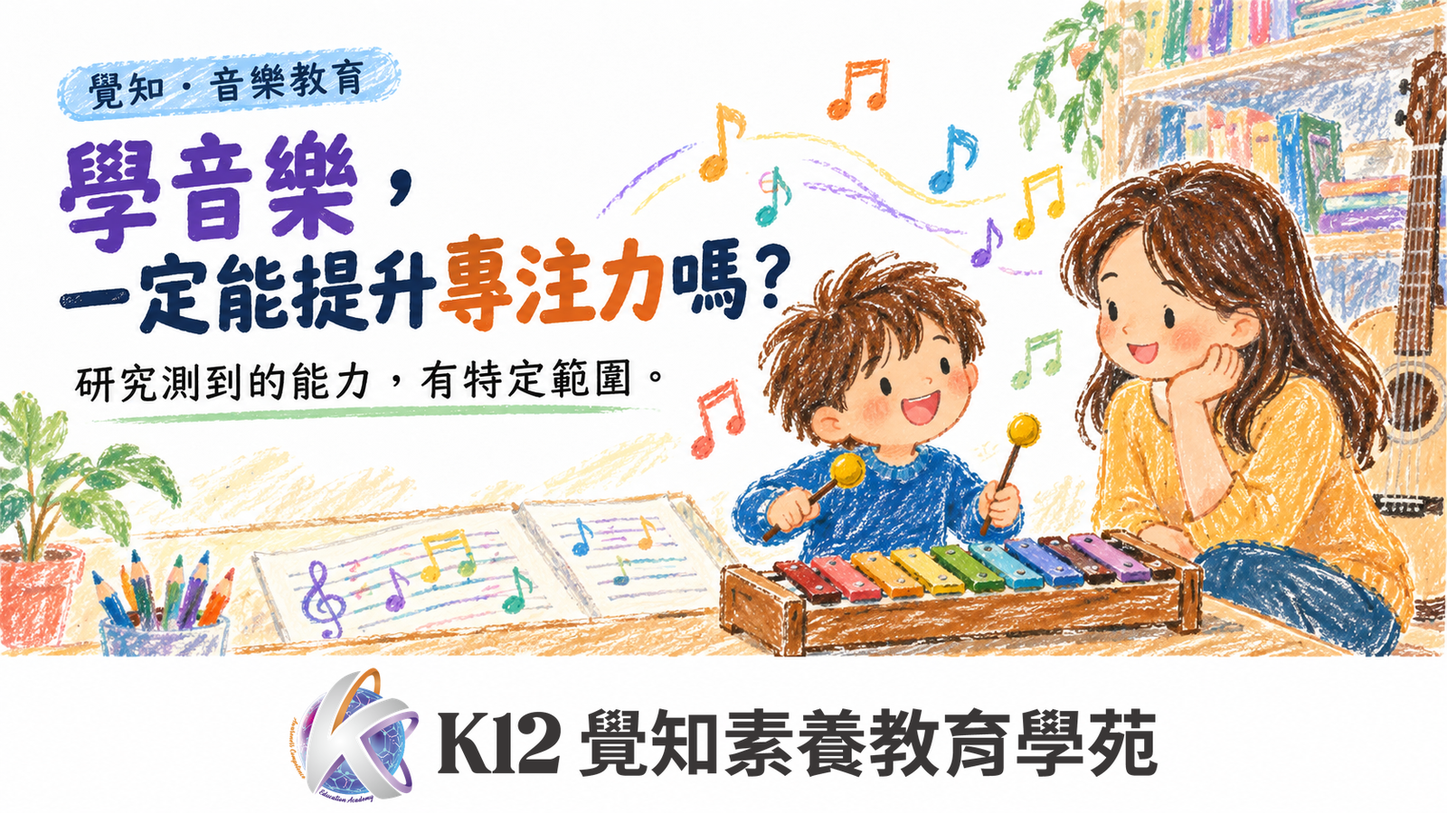
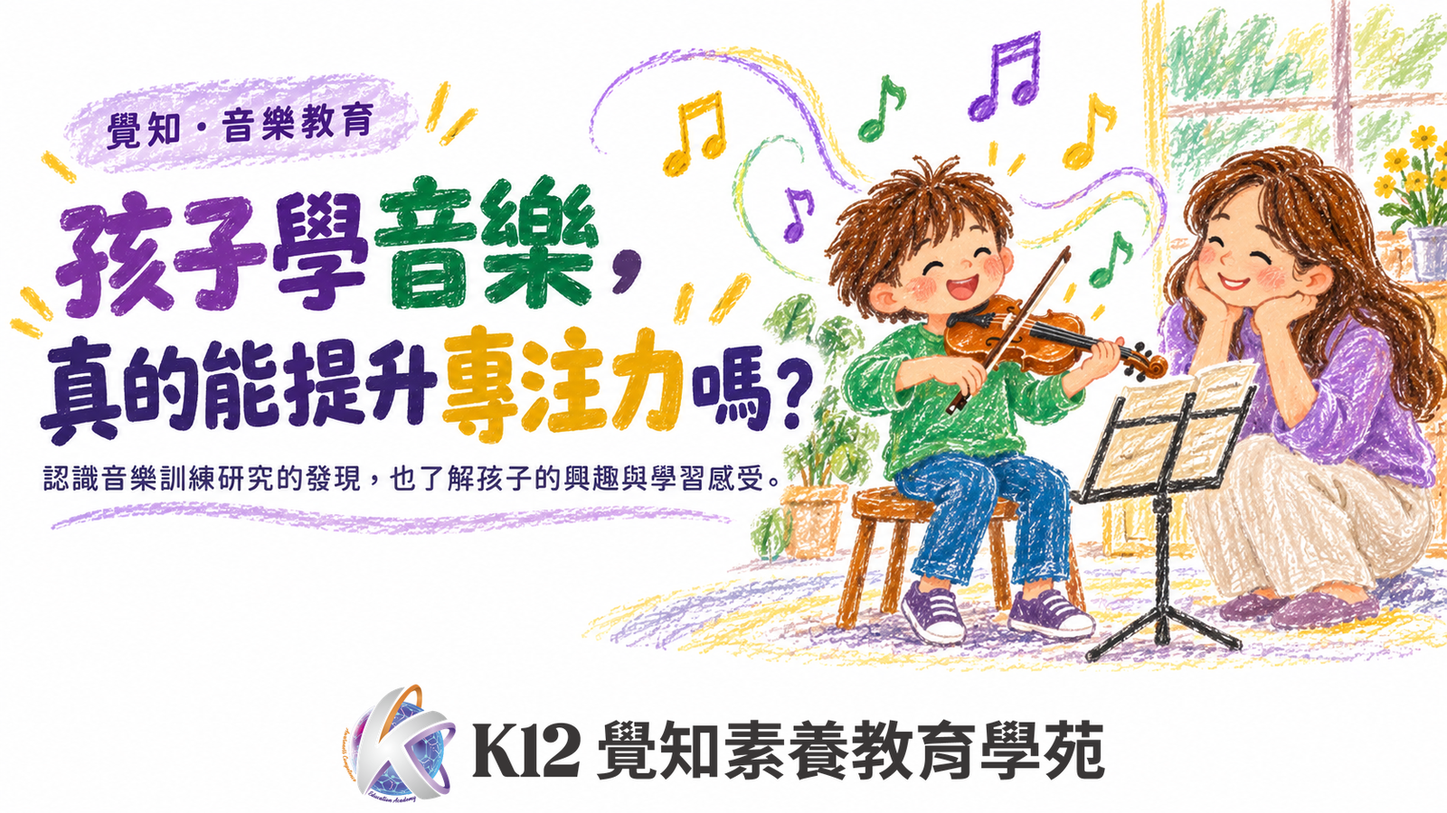
content: clarify Oct28-29 titles and regenerate matching covers

diff --git a/2026-10/parenting_essence_2026-10-29.html b/2026-10/parenting_essence_2026-10-29.html
@@ -3,10 +3,10 @@
 <head>
   <meta charset="utf-8">
   <meta name="viewport" content="width=device-width, initial-scale=1.0">
-  <title>大人怕數學，陪作業時可以怎麼調整？ ｜ 覺知教養 ｜ 每日精華</title>
-  <meta name="description" content="2026年研究沒有重現早期所說「大人焦慮與協助頻率共同作用」的結果。了解數學焦慮與陪作業研究，留意互動，也避免把學習困難歸咎家長。">
-  <meta name="keywords" content="教育新知 ｜ 數學焦慮,大人怕數學，陪作業時可以怎麼調整？">
-  <meta name="share-title" content="大人怕數學，陪作業時可以怎麼調整？">
+  <title>家長的數學焦慮，會影響孩子的學習嗎？ ｜ 覺知教養 ｜ 每日精華</title>
+  <meta name="description" content="陪孩子寫數學作業時，家長也可能感到緊張。從研究了解這份壓力，以及陪伴時可以留意的互動方式。">
+  <meta name="keywords" content="教育新知 ｜ 數學焦慮,家長的數學焦慮，會影響孩子的學習嗎？">
+  <meta name="share-title" content="家長的數學焦慮，會影響孩子的學習嗎？">
   <meta name="share-tint" content="green">
   <meta name="share-palette" content="cream-sage-pink">
   <meta name="hero-title-pos" content="left">
@@ -2731,9 +2731,9 @@ body .body section {
 
 <!-- Open Graph -->
 <meta property="og:type" content="article">
-<meta property="og:title" content="大人怕數學，陪作業時可以怎麼調整？">
-<meta property="og:description" content="2026年研究沒有重現早期所說「大人焦慮與協助頻率共同作用」的結果。了解數學焦慮與陪作業研究，留意互動，也避免把學習困難歸咎家長。">
-<meta property="og:image" content="https://k12daily.vercel.app/2026-10/parenting_essence_2026-10-29_share.png?v=20261030-parentknowledge2">
+<meta property="og:title" content="家長的數學焦慮，會影響孩子的學習嗎？">
+<meta property="og:description" content="陪孩子寫數學作業時，家長也可能感到緊張。從研究了解這份壓力，以及陪伴時可以留意的互動方式。">
+<meta property="og:image" content="https://k12daily.vercel.app/2026-10/parenting_essence_2026-10-29_share.png?v=20261030-titleclear1">
 <meta property="og:url" content="https://k12daily.vercel.app/2026-10/parenting_essence_2026-10-29">
 <meta property="og:site_name" content="K12 覺知素養教育學苑">
 <meta property="og:locale" content="zh_TW">
@@ -2743,18 +2743,18 @@ body .body section {
 
 <!-- Twitter Card -->
 <meta name="twitter:card" content="summary_large_image">
-<meta name="twitter:title" content="大人怕數學，陪作業時可以怎麼調整？">
-<meta name="twitter:description" content="2026年研究沒有重現早期所說「大人焦慮與協助頻率共同作用」的結果。了解數學焦慮與陪作業研究，留意互動，也避免把學習困難歸咎家長。">
-<meta name="twitter:image" content="https://k12daily.vercel.app/2026-10/parenting_essence_2026-10-29_share.png?v=20261030-parentknowledge2">
+<meta name="twitter:title" content="家長的數學焦慮，會影響孩子的學習嗎？">
+<meta name="twitter:description" content="陪孩子寫數學作業時，家長也可能感到緊張。從研究了解這份壓力，以及陪伴時可以留意的互動方式。">
+<meta name="twitter:image" content="https://k12daily.vercel.app/2026-10/parenting_essence_2026-10-29_share.png?v=20261030-titleclear1">
 
 <!-- Article Schema -->
 <script type="application/ld+json">{
   "@context": "https://schema.org",
   "@type": "Article",
-  "headline": "大人怕數學，陪作業時可以怎麼調整？",
-  "description": "2026年研究沒有重現早期所說「大人焦慮與協助頻率共同作用」的結果。了解數學焦慮與陪作業研究，留意互動，也避免把學習困難歸咎家長。",
+  "headline": "家長的數學焦慮，會影響孩子的學習嗎？",
+  "description": "陪孩子寫數學作業時，家長也可能感到緊張。從研究了解這份壓力，以及陪伴時可以留意的互動方式。",
   "image": [
-    "https://k12daily.vercel.app/2026-10/parenting_essence_2026-10-29_share.png?v=20261030-parentknowledge2"
+    "https://k12daily.vercel.app/2026-10/parenting_essence_2026-10-29_share.png?v=20261030-titleclear1"
   ],
   "datePublished": "2026-10-29",
   "dateModified": "2026-10-30",
@@ -2781,14 +2781,14 @@ body .body section {
 <body>
 <div class="wrap">
 
-  <figure class="daily-hero"><img src="parenting_essence_2026-10-29_hero.jpg?v=20261030-parentknowledge2" alt="陪作業的影響，不只取決於大人會不會算" width="1920" height="1080"></figure>
-  <header class="head"><div class="tag">覺知教養 ｜ 每日精華</div><h1 style="font-size:clamp(22px,5.5vw,46px)!important"><span style="display:inline-block;max-width:100%">大人怕數學，</span><span style="display:inline-block;max-width:100%">陪作業時可以怎麼調整？</span></h1><div class="meta"><span class="datebadge">2026-10-29 ｜ 週四 ｜ 10/30更新</span><span class="age">覺知．學齡家庭</span><span class="axis">教育新知 ｜ 數學焦慮</span></div><div class="hook">研究提醒我們留意互動，也別急著責怪自己。</div></header>
+  <figure class="daily-hero"><img src="parenting_essence_2026-10-29_hero.jpg?v=20261030-titleclear1" alt="陪作業的影響，不只取決於大人會不會算" width="1920" height="1080"></figure>
+  <header class="head"><div class="tag">覺知教養 ｜ 每日精華</div><h1 style="font-size:clamp(22px,5.5vw,46px)!important"><span style="display:inline-block;max-width:100%">家長的數學焦慮，</span><span style="display:inline-block;max-width:100%">會影響孩子的學習嗎？</span></h1><div class="meta"><span class="datebadge">2026-10-29 ｜ 週四 ｜ 10/30更新</span><span class="age">覺知．學齡家庭</span><span class="axis">教育新知 ｜ 數學焦慮</span></div><div class="hook">陪孩子寫數學作業時，家長也可能感到緊張。從研究了解這份壓力，以及陪伴時可以留意的互動方式。</div></header>
 
         <div class="share-card-inline" style="max-width:540px;margin:34px auto 6px;padding:0 22px;box-sizing:border-box;">
-    <img src="parenting_essence_2026-10-29_share.png?v=20261030-parentknowledge2" alt="新研究結果，和早期發現不完全相同" loading="lazy" style="width:100%;height:auto;border-radius:16px;box-shadow:0 8px 28px rgba(0,0,0,0.14);display:block;">
+    <img src="parenting_essence_2026-10-29_share.png?v=20261030-titleclear1" alt="新研究結果，和早期發現不完全相同" loading="lazy" style="width:100%;height:auto;border-radius:16px;box-shadow:0 8px 28px rgba(0,0,0,0.14);display:block;">
   </div>
 
-  <article class="body"><section><p>看到孩子的數學作業，大人也可能緊張：怕自己不會解釋，怕教錯，又擔心孩子一直落後。教育研究關注的「數學焦慮」，也包括照顧者面對數學時的不安。理解這個議題，目的不是找出該責怪誰，而是讓陪伴有調整的空間。</p></section><section><h2>新研究沒有完全重現早期結果</h2><p>2015年的一項研究曾發現，大人的數學焦慮與孩子較少的學習進展有關，但這種關聯主要出現在經常協助數學作業的家庭。這項結果容易被簡化成「焦慮的大人不該幫作業」，但研究討論的是特定情境下的統計關聯。</p><p>Poisall等人在2026年發表研究，整體研究包含美國佛羅里達州242個班級的3,018名幼兒園至三年級兒童；不同分析使用的樣本比整體人數少，約805至1,528人。研究沒有重現早期所說「焦慮程度與協助頻率共同作用」的結果。資料蒐集於2017至2019年，並非2026年的全美家庭調查。在研究所用的模型中，協助作業較頻繁與數學進展較少呈負向關聯；但這不能證明協助本身有害，家長焦慮的主效果也未在各模型中一致。</p><p>這些關聯不能證明幫忙造成學習落後。孩子原本遇到困難，也可能讓大人更常介入。研究本身提醒，還需要了解協助的內容與情緒，而不只是計算幫忙次數。</p></section><section><h2>先看當下互動，不急著增加講解</h2><p>對家庭而言，可以先留意：陪作業時，大人是否已經急得無法聽孩子說？孩子是在尋求提示，還是因為擔心出錯而不敢嘗試？這些問題不是用來診斷誰有焦慮，而是幫助您看見目前需要調整的地方。</p><p>如果雙方都愈來愈緊張，可以先暫停爭辯，記下真正不理解的部分，再向老師確認合適的協助方式。這是學苑依研究提出的陪伴方向，不是上述研究已驗證的改善方案。</p></section><section><h2>大人也可以說自己需要了解</h2><p>您不必假裝每一題都懂。說明「這個方法我也需要再了解」，比一邊擔心、一邊勉強反覆講解，更能讓彼此有機會釐清問題。</p></section><p class="source-note">資料來源：<a href="https://doi.org/10.1111/desc.70261" rel="noopener noreferrer">Poisall等（2026），數學焦慮與協助作業研究</a>；<a href="https://www.psychologicalscience.org/journals/psychological-science/0956797615592630/" rel="noopener noreferrer">Maloney等（2015），早期數學焦慮研究</a>。2026/10/30核對。家庭問句及生活示例由學苑整理，未當成研究中已驗證的介入方案。</p><figure style="margin:32px auto;max-width:640px"><img src="parenting_essence_2026-10-29_kcard.png?v=20261030-parentknowledge2" alt="大人也可以說：這個方法，我需要再了解。" style="width:100%;height:auto;border-radius:16px" loading="lazy"></figure></article>
+  <article class="body"><section><p>看到孩子的數學作業，大人也可能緊張：怕自己不會解釋，怕教錯，又擔心孩子一直落後。教育研究關注的「數學焦慮」，也包括照顧者面對數學時的不安。理解這個議題，目的不是找出該責怪誰，而是讓陪伴有調整的空間。</p></section><section><h2>新研究沒有完全重現早期結果</h2><p>2015年的一項研究曾發現，大人的數學焦慮與孩子較少的學習進展有關，但這種關聯主要出現在經常協助數學作業的家庭。這項結果容易被簡化成「焦慮的大人不該幫作業」，但研究討論的是特定情境下的統計關聯。</p><p>Poisall等人在2026年發表研究，整體研究包含美國佛羅里達州242個班級的3,018名幼兒園至三年級兒童；不同分析使用的樣本比整體人數少，約805至1,528人。研究沒有重現早期所說「焦慮程度與協助頻率共同作用」的結果。資料蒐集於2017至2019年，並非2026年的全美家庭調查。在研究所用的模型中，協助作業較頻繁與數學進展較少呈負向關聯；但這不能證明協助本身有害，家長焦慮的主效果也未在各模型中一致。</p><p>這些關聯不能證明幫忙造成學習落後。孩子原本遇到困難，也可能讓大人更常介入。研究本身提醒，還需要了解協助的內容與情緒，而不只是計算幫忙次數。</p></section><section><h2>先看當下互動，不急著增加講解</h2><p>對家庭而言，可以先留意：陪作業時，大人是否已經急得無法聽孩子說？孩子是在尋求提示，還是因為擔心出錯而不敢嘗試？這些問題不是用來診斷誰有焦慮，而是幫助您看見目前需要調整的地方。</p><p>如果雙方都愈來愈緊張，可以先暫停爭辯，記下真正不理解的部分，再向老師確認合適的協助方式。這是學苑依研究提出的陪伴方向，不是上述研究已驗證的改善方案。</p></section><section><h2>大人也可以說自己需要了解</h2><p>您不必假裝每一題都懂。說明「這個方法我也需要再了解」，比一邊擔心、一邊勉強反覆講解，更能讓彼此有機會釐清問題。</p></section><p class="source-note">資料來源：<a href="https://doi.org/10.1111/desc.70261" rel="noopener noreferrer">Poisall等（2026），數學焦慮與協助作業研究</a>；<a href="https://www.psychologicalscience.org/journals/psychological-science/0956797615592630/" rel="noopener noreferrer">Maloney等（2015），早期數學焦慮研究</a>。2026/10/30核對。家庭問句及生活示例由學苑整理，未當成研究中已驗證的介入方案。</p><figure style="margin:32px auto;max-width:640px"><img src="parenting_essence_2026-10-29_kcard.png?v=20261030-titleclear1" alt="大人也可以說：這個方法，我需要再了解。" style="width:100%;height:auto;border-radius:16px" loading="lazy"></figure></article>
 
   <div class="check-wrap">
   </div>
@@ -2900,7 +2900,7 @@ body .body section {
 .home-fab:hover::after{opacity:1;}
 @media(max-width:600px){.home-fab{bottom:16px;right:64px;width:42px;height:42px;}.home-fab::after{display:none;}}
 </style>
-<a class="share-fab" href="parenting_essence_2026-10-29_share.png?v=20261030-parentknowledge2" download title="下載 IG/FB 分享圖">
+<a class="share-fab" href="parenting_essence_2026-10-29_share.png?v=20261030-titleclear1" download title="下載 IG/FB 分享圖">
   <svg viewBox="0 0 24 24" xmlns="http://www.w3.org/2000/svg"><path d="M12 15.2a3.7 3.7 0 1 1 0-7.4 3.7 3.7 0 0 1 0 7.4zM9 2L7.17 4H4c-1.1 0-2 .9-2 2v12c0 1.1.9 2 2 2h16c1.1 0 2-.9 2-2V6c0-1.1-.9-2-2-2h-3.17L15 2H9zm3 15a5 5 0 1 1 0-10 5 5 0 0 1 0 10z"/></svg>
 </a>
 <a class="home-fab" href="../" title="回首頁">
@@ -3002,7 +3002,7 @@ body .body section {
 body header.head {
   background-image:
     linear-gradient(90deg, rgba(18,45,99,.76) 0%, rgba(18,45,99,.46) 54%, rgba(18,45,99,.04) 100%),
-    url('parenting_essence_2026-10-29_hero.jpg?v=20261030-parentknowledge2') !important;
+    url('parenting_essence_2026-10-29_hero.jpg?v=20261030-titleclear1') !important;
   background-size: cover !important;
   background-position: center 48% !important;
   background-repeat: no-repeat !important;

diff --git a/2026-10/parenting_essence_2026-10-28.html b/2026-10/parenting_essence_2026-10-28.html
@@ -3,10 +3,10 @@
 <head>
   <meta charset="utf-8">
   <meta name="viewport" content="width=device-width, initial-scale=1.0">
-  <title>選音樂課，除了專注力還能看什麼？ ｜ 覺知教養 ｜ 每日精華</title>
-  <meta name="description" content="音樂訓練研究測到的「抑制控制」，不等於所有專注力。選音樂課時，除了了解研究，也看看孩子的興趣、課程要求與實際參與經驗。">
-  <meta name="keywords" content="教育研究 ｜ 音樂選課,選音樂課，除了專注力還能看什麼？">
-  <meta name="share-title" content="選音樂課，除了專注力還能看什麼？">
+  <title>孩子學音樂，真的能提升專注力嗎？ ｜ 覺知教養 ｜ 每日精華</title>
+  <meta name="description" content="認識音樂訓練研究的發現，也了解孩子的興趣、參與感受與學習負擔。">
+  <meta name="keywords" content="教育研究 ｜ 音樂選課,孩子學音樂，真的能提升專注力嗎？">
+  <meta name="share-title" content="孩子學音樂，真的能提升專注力嗎？">
   <meta name="share-tint" content="green">
   <meta name="share-palette" content="cream-sage-pink">
   <meta name="hero-title-pos" content="left">
@@ -2731,9 +2731,9 @@ body .body section {
 
 <!-- Open Graph -->
 <meta property="og:type" content="article">
-<meta property="og:title" content="選音樂課，除了專注力還能看什麼？">
-<meta property="og:description" content="音樂訓練研究測到的「抑制控制」，不等於所有專注力。選音樂課時，除了了解研究，也看看孩子的興趣、課程要求與實際參與經驗。">
-<meta property="og:image" content="https://k12daily.vercel.app/2026-10/parenting_essence_2026-10-28_share.png?v=20261030-parentknowledge2">
+<meta property="og:title" content="孩子學音樂，真的能提升專注力嗎？">
+<meta property="og:description" content="認識音樂訓練研究的發現，也了解孩子的興趣、參與感受與學習負擔。">
+<meta property="og:image" content="https://k12daily.vercel.app/2026-10/parenting_essence_2026-10-28_share.png?v=20261030-titleclear1">
 <meta property="og:url" content="https://k12daily.vercel.app/2026-10/parenting_essence_2026-10-28">
 <meta property="og:site_name" content="K12 覺知素養教育學苑">
 <meta property="og:locale" content="zh_TW">
@@ -2743,18 +2743,18 @@ body .body section {
 
 <!-- Twitter Card -->
 <meta name="twitter:card" content="summary_large_image">
-<meta name="twitter:title" content="選音樂課，除了專注力還能看什麼？">
-<meta name="twitter:description" content="音樂訓練研究測到的「抑制控制」，不等於所有專注力。選音樂課時，除了了解研究，也看看孩子的興趣、課程要求與實際參與經驗。">
-<meta name="twitter:image" content="https://k12daily.vercel.app/2026-10/parenting_essence_2026-10-28_share.png?v=20261030-parentknowledge2">
+<meta name="twitter:title" content="孩子學音樂，真的能提升專注力嗎？">
+<meta name="twitter:description" content="認識音樂訓練研究的發現，也了解孩子的興趣、參與感受與學習負擔。">
+<meta name="twitter:image" content="https://k12daily.vercel.app/2026-10/parenting_essence_2026-10-28_share.png?v=20261030-titleclear1">
 
 <!-- Article Schema -->
 <script type="application/ld+json">{
   "@context": "https://schema.org",
   "@type": "Article",
-  "headline": "選音樂課，除了專注力還能看什麼？",
-  "description": "音樂訓練研究測到的「抑制控制」，不等於所有專注力。選音樂課時，除了了解研究，也看看孩子的興趣、課程要求與實際參與經驗。",
+  "headline": "孩子學音樂，真的能提升專注力嗎？",
+  "description": "認識音樂訓練研究的發現，也了解孩子的興趣、參與感受與學習負擔。",
   "image": [
-    "https://k12daily.vercel.app/2026-10/parenting_essence_2026-10-28_share.png?v=20261030-parentknowledge2"
+    "https://k12daily.vercel.app/2026-10/parenting_essence_2026-10-28_share.png?v=20261030-titleclear1"
   ],
   "datePublished": "2026-10-28",
   "dateModified": "2026-10-30",
@@ -2781,14 +2781,14 @@ body .body section {
 <body>
 <div class="wrap">
 
-  <figure class="daily-hero"><img src="parenting_essence_2026-10-28_hero.jpg?v=20261030-parentknowledge2" alt="抑制控制，不等於全部專注力" width="1920" height="1080"></figure>
-  <header class="head"><div class="tag">覺知教養 ｜ 每日精華</div><h1 style="font-size:clamp(22px,5.5vw,46px)!important"><span style="display:inline-block;max-width:100%">選音樂課，</span><span style="display:inline-block;max-width:100%">除了專注力還能看什麼？</span></h1><div class="meta"><span class="datebadge">2026-10-28 ｜ 週三 ｜ 10/30更新</span><span class="age">覺知．學齡家庭</span><span class="axis">教育研究 ｜ 音樂選課</span></div><div class="hook">孩子的興趣與參與經驗，也值得重視。</div></header>
+  <figure class="daily-hero"><img src="parenting_essence_2026-10-28_hero.jpg?v=20261030-titleclear1" alt="抑制控制，不等於全部專注力" width="1920" height="1080"></figure>
+  <header class="head"><div class="tag">覺知教養 ｜ 每日精華</div><h1 style="font-size:clamp(22px,5.5vw,46px)!important"><span style="display:inline-block;max-width:100%">孩子學音樂，</span><span style="display:inline-block;max-width:100%">真的能提升專注力嗎？</span></h1><div class="meta"><span class="datebadge">2026-10-28 ｜ 週三 ｜ 10/30更新</span><span class="age">覺知．學齡家庭</span><span class="axis">教育研究 ｜ 音樂選課</span></div><div class="hook">認識音樂訓練研究的發現，也了解孩子的興趣、參與感受與學習負擔。</div></header>
 
         <div class="share-card-inline" style="max-width:540px;margin:34px auto 6px;padding:0 22px;box-sizing:border-box;">
-    <img src="parenting_essence_2026-10-28_share.png?v=20261030-parentknowledge2" alt="選音樂課，也要看孩子的感受" loading="lazy" style="width:100%;height:auto;border-radius:16px;box-shadow:0 8px 28px rgba(0,0,0,0.14);display:block;">
+    <img src="parenting_essence_2026-10-28_share.png?v=20261030-titleclear1" alt="選音樂課，也要看孩子的感受" loading="lazy" style="width:100%;height:auto;border-radius:16px;box-shadow:0 8px 28px rgba(0,0,0,0.14);display:block;">
   </div>
 
-  <article class="body"><section><p>替孩子選音樂課時，您可能看過「學音樂能提升專注力」的說法。音樂確實是兒童發展研究關注的活動，但選課前，需要先分清楚：研究測到的是哪一種表現，又能不能用來保證眼前這門課的效果。</p></section><section><h2>研究中的抑制控制，是什麼？</h2><p>Jamey等人2024年整合22項具對照的縱向研究，共涉及1,734名3至11歲兒童；其中8項隨機且設有主動對照的研究，包含在22項之內。抑制控制是指在需要時抑制不合適或直覺反應的能力，例如知道規則後，暫時不做原本想做的動作。</p><p>研究在抑制控制測驗上發現整體正向平均效果，但研究品質、對照設計與文化背景存在限制；不能因此推論一般專注力或學業成績都會改善。不同課程、時間長度與比較條件都有差異，不能直接保證任何一門音樂課，都會讓孩子上課更專心。</p></section><section><h2>選課，也要看孩子實際的經驗</h2><p>了解研究後，大人仍需要回到孩子身上。他是否對聲音或樂器有興趣？課程節奏與練習負擔，是否適合孩子目前的生活？遇到不會的地方時，老師如何回應？這些問題能幫助您了解課程經驗，並非上述研究驗證過的選課量表。</p><p>如果孩子願意，可以在體驗後聽他說說喜歡與困難的部分。不必只問他有沒有學會，也可以了解他是否想繼續，以及哪些地方需要協助。</p></section><section><h2>音樂的價值，也在音樂本身</h2><p>欣賞聲音、表達感受、和別人一起演奏，都可以成為參與音樂的理由。研究帶來的是多一份理解，並不要求每個孩子都為了訓練另一種能力而學音樂。</p></section><p class="source-note">資料來源：<a href="https://doi.org/10.1016/j.cognition.2024.105913" rel="noopener noreferrer">Jamey等（2024），音樂訓練與抑制控制統合分析</a>。2026/10/30核對。家庭問句及生活示例由學苑整理，未當成研究中已驗證的介入方案。</p><figure style="margin:32px auto;max-width:640px"><img src="parenting_essence_2026-10-28_kcard.png?v=20261030-parentknowledge2" alt="喜歡音樂，本身就是理由" style="width:100%;height:auto;border-radius:16px" loading="lazy"></figure></article>
+  <article class="body"><section><p>替孩子選音樂課時，您可能看過「學音樂能提升專注力」的說法。音樂確實是兒童發展研究關注的活動，但選課前，需要先分清楚：研究測到的是哪一種表現，又能不能用來保證眼前這門課的效果。</p></section><section><h2>研究中的抑制控制，是什麼？</h2><p>Jamey等人2024年整合22項具對照的縱向研究，共涉及1,734名3至11歲兒童；其中8項隨機且設有主動對照的研究，包含在22項之內。抑制控制是指在需要時抑制不合適或直覺反應的能力，例如知道規則後，暫時不做原本想做的動作。</p><p>研究在抑制控制測驗上發現整體正向平均效果，但研究品質、對照設計與文化背景存在限制；不能因此推論一般專注力或學業成績都會改善。不同課程、時間長度與比較條件都有差異，不能直接保證任何一門音樂課，都會讓孩子上課更專心。</p></section><section><h2>選課，也要看孩子實際的經驗</h2><p>了解研究後，大人仍需要回到孩子身上。他是否對聲音或樂器有興趣？課程節奏與練習負擔，是否適合孩子目前的生活？遇到不會的地方時，老師如何回應？這些問題能幫助您了解課程經驗，並非上述研究驗證過的選課量表。</p><p>如果孩子願意，可以在體驗後聽他說說喜歡與困難的部分。不必只問他有沒有學會，也可以了解他是否想繼續，以及哪些地方需要協助。</p></section><section><h2>音樂的價值，也在音樂本身</h2><p>欣賞聲音、表達感受、和別人一起演奏，都可以成為參與音樂的理由。研究帶來的是多一份理解，並不要求每個孩子都為了訓練另一種能力而學音樂。</p></section><p class="source-note">資料來源：<a href="https://doi.org/10.1016/j.cognition.2024.105913" rel="noopener noreferrer">Jamey等（2024），音樂訓練與抑制控制統合分析</a>。2026/10/30核對。家庭問句及生活示例由學苑整理，未當成研究中已驗證的介入方案。</p><figure style="margin:32px auto;max-width:640px"><img src="parenting_essence_2026-10-28_kcard.png?v=20261030-titleclear1" alt="喜歡音樂，本身就是理由" style="width:100%;height:auto;border-radius:16px" loading="lazy"></figure></article>
 
   <div class="check-wrap">
   </div>
@@ -2900,7 +2900,7 @@ body .body section {
 .home-fab:hover::after{opacity:1;}
 @media(max-width:600px){.home-fab{bottom:16px;right:64px;width:42px;height:42px;}.home-fab::after{display:none;}}
 </style>
-<a class="share-fab" href="parenting_essence_2026-10-28_share.png?v=20261030-parentknowledge2" download title="下載 IG/FB 分享圖">
+<a class="share-fab" href="parenting_essence_2026-10-28_share.png?v=20261030-titleclear1" download title="下載 IG/FB 分享圖">
   <svg viewBox="0 0 24 24" xmlns="http://www.w3.org/2000/svg"><path d="M12 15.2a3.7 3.7 0 1 1 0-7.4 3.7 3.7 0 0 1 0 7.4zM9 2L7.17 4H4c-1.1 0-2 .9-2 2v12c0 1.1.9 2 2 2h16c1.1 0 2-.9 2-2V6c0-1.1-.9-2-2-2h-3.17L15 2H9zm3 15a5 5 0 1 1 0-10 5 5 0 0 1 0 10z"/></svg>
 </a>
 <a class="home-fab" href="../" title="回首頁">
@@ -3002,7 +3002,7 @@ body .body section {
 body header.head {
   background-image:
     linear-gradient(90deg, rgba(18,45,99,.76) 0%, rgba(18,45,99,.46) 54%, rgba(18,45,99,.04) 100%),
-    url('parenting_essence_2026-10-28_hero.jpg?v=20261030-parentknowledge2') !important;
+    url('parenting_essence_2026-10-28_hero.jpg?v=20261030-titleclear1') !important;
   background-size: cover !important;
   background-position: center 48% !important;
   background-repeat: no-repeat !important;

diff --git a/index.html b/index.html
@@ -95,8 +95,8 @@ footer.v20{display:flex;align-items:center;justify-content:space-between;gap:16p
 
   <div class="grid">
 <a class="card is-latest theme-coffee" data-asset-version="?v=20261030-parentknowledge2" href="2026-10/parenting_essence_2026-10-30.html" data-axis="fri" data-age="parent" data-hero="2026-10/parenting_essence_2026-10-30_hero.jpg?v=20261030-parentknowledge2"><div class="card-tags"><span class="age">覺知．學齡家庭</span><span class="axis">教育新知 ｜ 自然遊戲</span></div><h3 class="card-title">自然遊戲後，孩子帶回什麼經驗？</h3><p class="card-hook">澳洲2026年研究從家長觀察探討自然遊戲與家庭談話。研究沒有證明孩子能力必然提升，卻提供一個陪伴角度：先聽孩子帶回來的經驗，不急著把它變成一堂課。</p><span class="upload-date">2026-10-30&nbsp;&nbsp;週五</span><span class="card-cta" style="margin-top:8px;">閱讀全文 &rarr;</span></a>
-<a class="card theme-coffee" data-asset-version="?v=20261030-parentknowledge2" href="2026-10/parenting_essence_2026-10-29.html" data-axis="thu" data-age="parent" data-hero="2026-10/parenting_essence_2026-10-29_hero.jpg?v=20261030-parentknowledge2"><div class="card-tags"><span class="age">覺知．學齡家庭</span><span class="axis">教育新知 ｜ 數學焦慮</span></div><h3 class="card-title">大人怕數學，陪作業時可以怎麼調整？</h3><p class="card-hook">2026年研究沒有重現早期所說「大人焦慮與協助頻率共同作用」的結果。了解數學焦慮與陪作業研究，留意互動，也避免把學習困難歸咎家長。</p><span class="upload-date">2026-10-29&nbsp;&nbsp;週四</span><span class="card-cta" style="margin-top:8px;">閱讀全文 &rarr;</span></a>
-<a class="card theme-coffee" data-asset-version="?v=20261030-parentknowledge2" href="2026-10/parenting_essence_2026-10-28.html" data-axis="wed" data-age="parent" data-hero="2026-10/parenting_essence_2026-10-28_hero.jpg?v=20261030-parentknowledge2"><div class="card-tags"><span class="age">覺知．學齡家庭</span><span class="axis">教育研究 ｜ 音樂選課</span></div><h3 class="card-title">選音樂課，除了專注力還能看什麼？</h3><p class="card-hook">音樂訓練研究測到的「抑制控制」，不等於所有專注力。選音樂課時，除了了解研究，也看看孩子的興趣、課程要求與實際參與經驗。</p><span class="upload-date">2026-10-28&nbsp;&nbsp;週三</span><span class="card-cta" style="margin-top:8px;">閱讀全文 &rarr;</span></a>
+<a class="card theme-coffee" data-asset-version="?v=20261030-titleclear1" href="2026-10/parenting_essence_2026-10-29.html" data-axis="thu" data-age="parent" data-hero="2026-10/parenting_essence_2026-10-29_hero.jpg?v=20261030-titleclear1"><div class="card-tags"><span class="age">覺知．學齡家庭</span><span class="axis">教育新知 ｜ 數學焦慮</span></div><h3 class="card-title">家長的數學焦慮，會影響孩子的學習嗎？</h3><p class="card-hook">陪孩子寫數學作業時，家長也可能感到緊張。從研究了解這份壓力，以及陪伴時可以留意的互動方式。</p><span class="upload-date">2026-10-29&nbsp;&nbsp;週四</span><span class="card-cta" style="margin-top:8px;">閱讀全文 &rarr;</span></a>
+<a class="card theme-coffee" data-asset-version="?v=20261030-titleclear1" href="2026-10/parenting_essence_2026-10-28.html" data-axis="wed" data-age="parent" data-hero="2026-10/parenting_essence_2026-10-28_hero.jpg?v=20261030-titleclear1"><div class="card-tags"><span class="age">覺知．學齡家庭</span><span class="axis">教育研究 ｜ 音樂選課</span></div><h3 class="card-title">孩子學音樂，真的能提升專注力嗎？</h3><p class="card-hook">認識音樂訓練研究的發現，也了解孩子的興趣、參與感受與學習負擔。</p><span class="upload-date">2026-10-28&nbsp;&nbsp;週三</span><span class="card-cta" style="margin-top:8px;">閱讀全文 &rarr;</span></a>
 <a class="card theme-coffee" data-asset-version="?v=20261030-parentknowledge2" href="2026-10/parenting_essence_2026-10-27.html" data-axis="tue" data-age="parent" data-hero="2026-10/parenting_essence_2026-10-27_hero.jpg?v=20261030-parentknowledge2"><div class="card-tags"><span class="age">覺知．學齡家庭</span><span class="axis">教養知識 ｜ 心理韌性</span></div><h3 class="card-title">心理韌性：孩子受挫後，需要什麼支持？</h3><p class="card-hook">心理韌性不只看孩子能不能忍耐。兒童發展研究提醒，穩定的支持關係、逐漸發展的能力與生活環境，都影響孩子如何面對困難。</p><span class="upload-date">2026-10-27&nbsp;&nbsp;週二</span><span class="card-cta" style="margin-top:8px;">閱讀全文 &rarr;</span></a>
 <a class="card theme-coffee" data-asset-version="?v=20261030-parentknowledge2" href="2026-10/parenting_essence_2026-10-26.html" data-axis="mon" data-age="parent" data-hero="2026-10/parenting_essence_2026-10-26_hero.jpg?v=20261030-parentknowledge2"><div class="card-tags"><span class="age">覺知．學齡家庭</span><span class="axis">教育知識 ｜ 遊戲價值</span></div><h3 class="card-title">陪孩子玩，不必每次都設定學習目標</h3><p class="card-hook">遊戲的價值，不必每次都用學習成果證明。從兒科學會報告與假裝遊戲研究，理解如何保留孩子自己的想法，也謹慎看待能力訓練的承諾。</p><span class="upload-date">2026-10-26&nbsp;&nbsp;週一</span><span class="card-cta" style="margin-top:8px;">閱讀全文 &rarr;</span></a>
 <a class="card theme-coffee" data-asset-version="?v=20261030-parentknowledge2" href="2026-10/parenting_essence_2026-10-25.html" data-axis="sun" data-age="parent" data-hero="2026-10/parenting_essence_2026-10-25_hero.jpg?v=20261030-parentknowledge2"><div class="card-tags"><span class="age">覺知．學齡家庭</span><span class="axis">教養知識 ｜ 自主支持</span></div><h3 class="card-title">支持孩子自主，和放任有什麼不同？</h3><p class="card-hook">自主支持不等於凡事答應。認識教養研究中的自主支持，理解如何在必要界線內，保留孩子表達與參與的機會。</p><span class="upload-date">2026-10-25&nbsp;&nbsp;週日</span><span class="card-cta" style="margin-top:8px;">閱讀全文 &rarr;</span></a>
